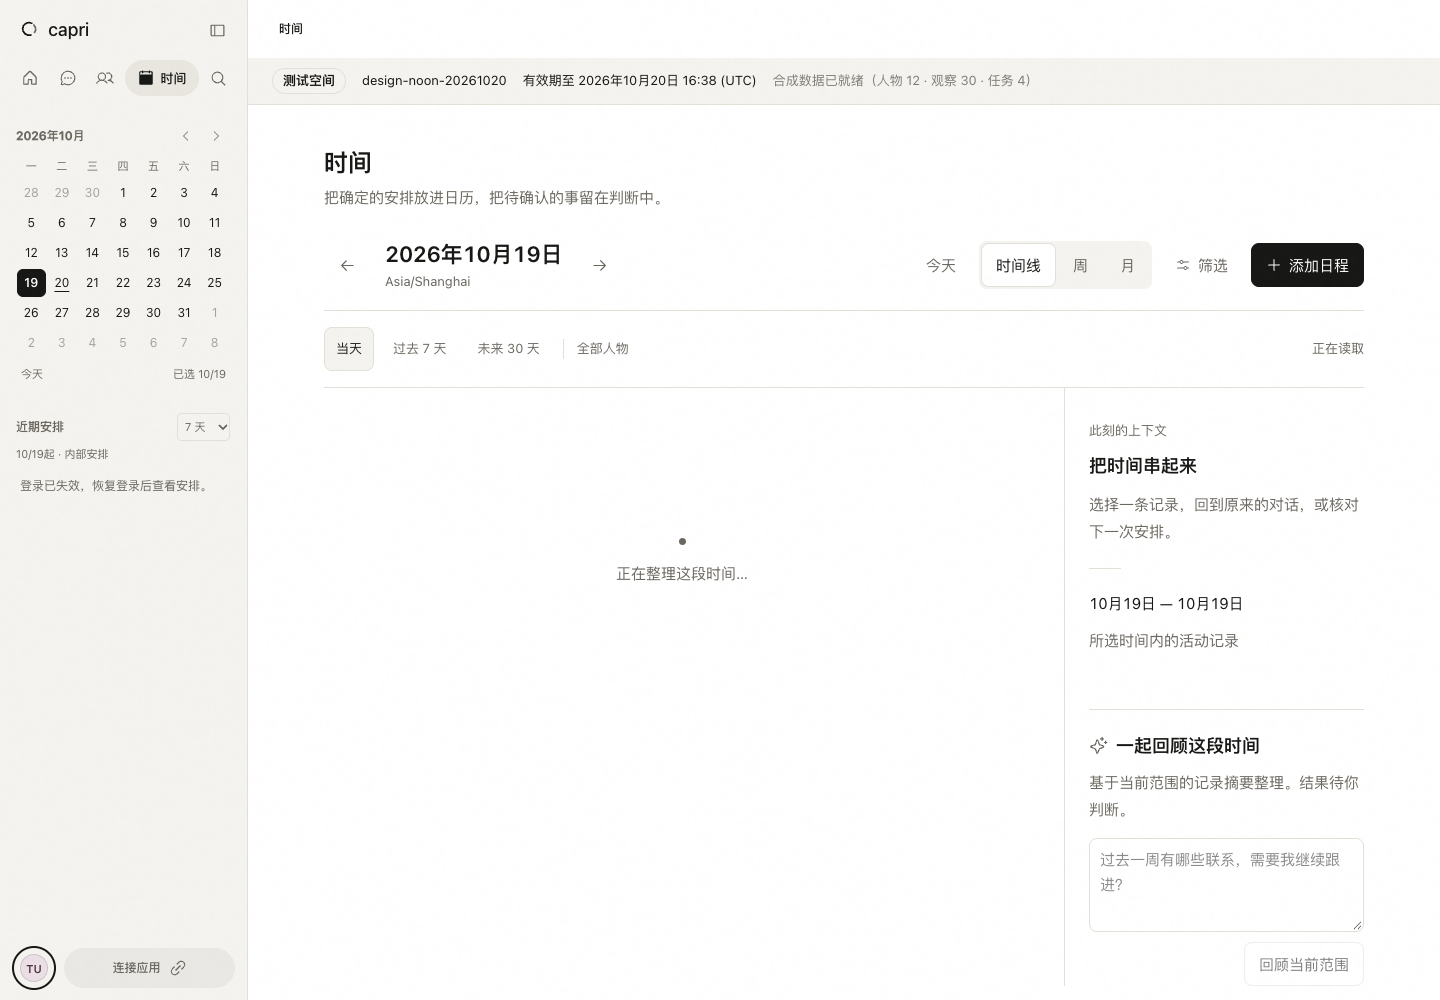
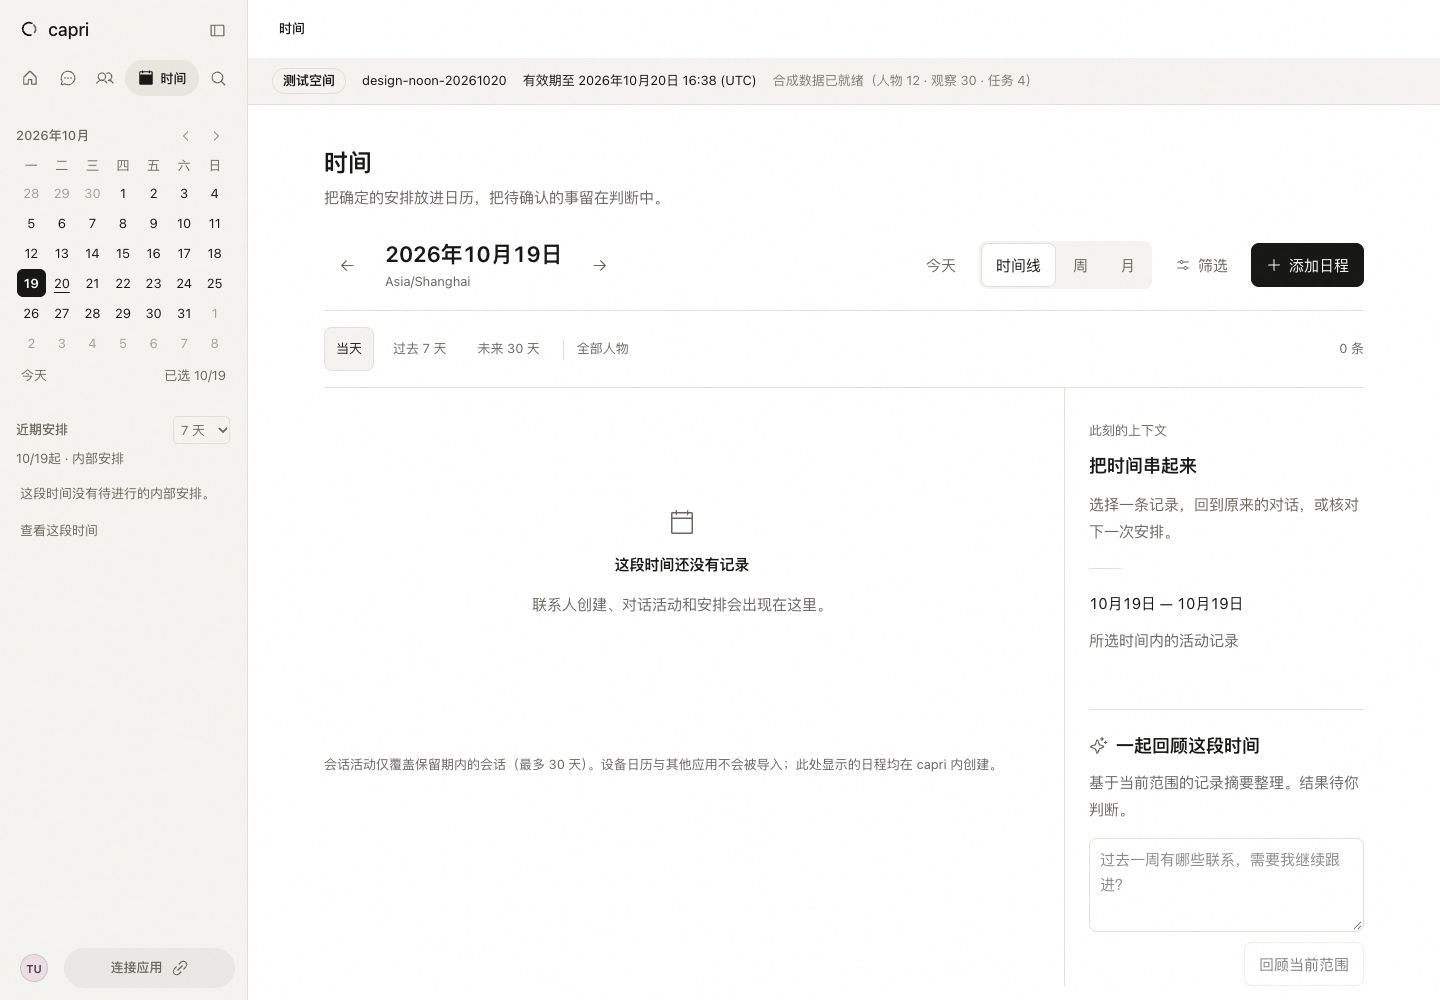
docs: record resident and native craft verification

diff --git a/design-log.md b/design-log.md
@@ -84,7 +84,7 @@ Independent source review found no concrete P0/P1/P2 at diff `7bd130aeef92dec118
 
 ### Loop 4 — Empty and failed Time states stay within reach
 
-**Decision:** accepted locally; combined resident deployment and native after-proof pending.
+**Decision:** accepted and deployed; resident and native after-proof verified.
 
 A desktop-height floor pushed the narrow empty-state explanation behind the mobile navigation and below the short macOS window. Below 1000px, stacked rows now follow their content and the status area uses a 224px floor. Desktop composition remains stable. The Time error panel translates three known browser network-failure strings into “暂时连不上服务，请重试。”; other errors and all request, authorization and retry behavior remain unchanged.
 
@@ -96,12 +96,12 @@ A desktop-height floor pushed the narrow empty-state explanation behind the mobi
 
 At 390px the empty heading moves from 728.28px to 639.92px, and its explanation ends at 704.42px. At 1440px the heading remains at 553.22px. [Dark empty state](design-log/2026-10-20/round-04/web-dark-390-after.png), [actual loading](design-log/2026-10-20/round-04/web-390-loading.png), and [320px keyboard-expanded review](design-log/2026-10-20/round-04/web-dark-320-expanded.png) were checked without page overflow. The expanded capture intentionally follows keyboard focus and is scrolled. Error/loading proof uses a temporarily paused or failed Time Fetch in the isolated QA tab, with interception cleared afterward; Enter on Retry restores the real response. No response fixture, record write or authentication bypass is used.
 
[2 lines of base64/hex data omitted]
 
 
 ### Loop 6 — Extension choices stop competing with their content
 
-**Decision:** accepted locally; resident deployment and native after-proof pending. Loop 5's separate shared-sidebar batch is still being verified.
+**Decision:** accepted and deployed; resident and native after-proof verified. Loop 5 was verified separately in the same release.
 
 Four full-width black catalog buttons and a black selected direction tab gave utility controls more weight than the service descriptions. Direction tabs now use one fine selected underline. Catalog choices use compact secondary controls within the same existing grid. The outgoing-client empty state uses whitespace instead of another box. Body, error and empty copy use the shared 15px size, with 13px domain/auth metadata. Request, submission and confirmation primary controls remain distinct; no service, permission, route, record or business logic changes.
 
@@ -113,12 +113,12 @@ Four full-width black catalog buttons and a black selected direction tab gave ut
 
 At 390px, the first service starts at 494.08px instead of 564.72px: 70.64px earlier. Catalog targets remain 90 × 44px; both direction tabs remain at least 44px tall and sit on one row at 320. The custom form stays within 320px, with 44px inputs and 16px input text. [Dark mobile](design-log/2026-10-20/round-06/web-dark-390-after.png), [dark desktop](design-log/2026-10-20/round-06/web-dark-1440-after.png), [forced colors](design-log/2026-10-20/round-06/web-forced-colors-390.png) and [real read failure](design-log/2026-10-20/round-06/web-error-390.png) were checked. Actual forced-color inspection caught transparent unselected tab borders becoming black; explicit Canvas/Highlight borders fix the ambiguous selection. Arrow keys move selection and focus, and the 2px outline remains visible. Reduced motion removes the 180ms transitions.
 
[2 lines of base64/hex data omitted]
 
 
 ### Loop 5 — Shared utilities become legible without growing the shell
 
-**Decision:** accepted locally after independent review; combined resident deployment and native after-proof pending. This bounded batch ran alongside Loop 6 and is committed afterward.
+**Decision:** accepted and deployed after independent review; resident and native after-proof verified. This bounded batch ran alongside Loop 6 and is committed afterward.
 
 Sidebar names and search results now use the shared 15px body size. Labels, dates, counters and supporting context use 13px metadata. Nonstandard weights collapse into 400/500/600. Existing sidebar widths, calendar cell heights, single-line session titles, truncation and every action remain intact. The compact avatar initials retain their existing geometric sizing. Mobile search entry stays 16px, and its initial/error/no-results explanation uses 15px. Ordinary utility transitions share 180ms; the existing 220ms footer morph remains within the design range.
 
@@ -132,8 +132,22 @@ The sidebar stays 248px wide. Person rows are 52.39px high; at [900 × 720](desi
 
 [Search on desktop](design-log/2026-10-20/round-05/search-1440-after.png), [390px keyboard selection](design-log/2026-10-20/round-05/search-390-after.png) and [320px no results](design-log/2026-10-20/round-05/search-empty-320-after.png) were exercised. Meta+K and Control+K open it, ArrowDown selects a result, Enter opens the actual synthetic person, and Escape closes it. At 320, the dialog is 288px wide and input text remains 16px, without page overflow. Focus is visible at 2px. Computed normal transitions are 180ms; actual reduced-motion transitions resolve to 0.00001s, including the late-defined rail controls.
 
-The [small-calendar forced-color label](design-log/2026-10-20/round-05/time-forced-colors-1440.png) now stays readable on its system highlight. [Cross-month selected date](design-log/2026-10-20/round-05/calendar-selected-outside-forced-1440.png) retains Highlight/HighlightText even when also outside the browsed month. Those state captures include the local preview's separate sidebar authentication error, and one includes a transient actual health/loading warning. They are state-specific proof, not matched normal Time comparisons; the normal Time after-image will come from the resident service.
+The [small-calendar forced-color label](design-log/2026-10-20/round-05/time-forced-colors-1440.png) now stays readable on its system highlight. [Cross-month selected date](design-log/2026-10-20/round-05/calendar-selected-outside-forced-1440.png) retains Highlight/HighlightText even when also outside the browsed month. Those state captures include the local preview's separate sidebar authentication error, and one includes a transient actual health/loading warning. They are state-specific proof, not matched normal Time comparisons; the [normal Time after-image](design-log/2026-10-20/round-05/time-1440-after.png) comes from the resident service and shows its healthy empty schedule sidebar.
 
[1 lines of base64/hex data omitted]
 
-Native before-images use the same empty Time day on the primary authorized workspace: [1123 × 865](design-log/2026-10-20/round-05/macos-default-before.png) and [900 × 720](design-log/2026-10-20/round-05/macos-narrow-before.png). Native menu navigation and reload restored an inspectable page; the window is restored to its default size. A provisional capture retained an old painted date selection and was replaced after explicit-date reload. After-proof remains required after the combined deployment. Today summaries remain a separate unresolved runtime observation.
+Native before-images use the same empty Time day on the primary authorized workspace: [1123 × 865](design-log/2026-10-20/round-05/macos-default-before.png) and [900 × 720](design-log/2026-10-20/round-05/macos-narrow-before.png). Native menu navigation and reload restored an inspectable page; the window is restored to its default size. A provisional capture retained an old painted date selection and was replaced after explicit-date reload. After-proof now verifies [1123 × 865](design-log/2026-10-20/round-05/macos-default-after.png), [900 × 720](design-log/2026-10-20/round-05/macos-narrow-after.png), and [actual ⌘K search](design-log/2026-10-20/round-05/macos-search-after.png); Escape returns to Time. Today summaries remain a separate unresolved runtime observation.
+
+
+### Combined resident proof — Loops 4, 5 and 6
+
+All three bounded batches are active at clean committed revision `916c104c2526cbd0be088ce62ea6ebc66c934a68`, build `5PrRkQAfnP-lkomTIMDmF`. The detached release passed production compilation, type checking and static generation before activation. HTTPS login validates the certificate; the authenticated isolated workspace reads its actual four-entry extension catalog after restart. Launchd recovery took 18.41 seconds, changed the process, restored password-account readiness and retained the same revision/build receipt. API readiness and its database remain healthy; these Web-only changes do not require a backend rebuild.
+
+Native Time uses the same authorized empty workspace and explicit date before and after. The narrow explanation now appears inside the window.
+
+| Native Time | Before | After |
+| --- | --- | --- |
+| 1123 × 865 | ![Default before](design-log/2026-10-20/round-04/macos-default-before.png) | ![Default after](design-log/2026-10-20/round-04/macos-default-after.png) |
+| 900 × 720 | ![Narrow before](design-log/2026-10-20/round-04/macos-narrow-before.png) | ![Narrow after](design-log/2026-10-20/round-04/macos-narrow-after.png) |
+
+The build preparation also inspected host and Docker-VM capacity. Only individually rechecked unused, unshared, reproducible BuildKit records were reclaimed by exact ID. Image, volume and running-container sets remain identical; Docker context stays `colima`. VM free space increased from 2,417,340 to 4,396,992 KiB. Host free space remained above the 30 GiB build threshold. Current and rollback release sources were preserved. Raw cleanup receipts stay in the private task artifact.

diff --git a/plans/2026-10-20-design-noon.md b/plans/2026-10-20-design-noon.md
@@ -176,3 +176,20 @@ Calendarforcedselected19whiteonHighlightverified, andactualday31thenbrowseNov se
 Dev77447stoppedexit0onlyafterhealthyQA9confirmedresidentHTTPSPeople390. ItwasrestartafterprovenCSSstale13evenreload: stopped33164, lsof+Dnextdevempty, removedonlyowned.next/dev, final59teststhenstart77447. Newcachecompiledfinalempty15. NextAGENTS/nextenvknownchurninspectedrestored; noactivedevnow. Nootherjobsstopped.
 
 NativeAppKitGo->TimeworkedwhenWebViewlinkhadnoAXframe; More->Reloadwithactualday20URL makespaintedselected20agree. Freshsafeemptybeforedefault1123x865/narrow900x720curatedround05 andround04; narrowemptytitleatbottomandcopyoffwindow. Restored1123x865. Offersnew0.2.11(146)updatefromconcurrentnativework; didnotinstall. NativeTodaystillloadsunresolved. BeforeparentreloadsomeAXHTMLtemporarilymissingandpaintingstale; doactualreload/readbackratherthanclaimappsourcebug. Needcleancommit5, buildcombined4+5+6usingpinnedpnpm11.18.0atcleanrelease, recheckactive46/installerlock, activate, actualresidentWeb+nativeafterproof; nobackenddiffnoAPIdeployneeded. Lastresources88Node12.78GiBswap32.35GiBfree; avoidoverlappingheavybuilds, protectcurrent+rollbacksource/deps.
+
+
+## 03:54 checkpoint — combined4/5/6 clean release building
+
+Loop5 committed916c104c2526cbd0be088ce62ea6ebc66c934a68; sourceclean, finaldiff55e0177...reviewbind. Clean detached release `/Users/cubxxw/Library/Application Support/Talent Signal/web/releases/916c104c` created; pinned pnpm11.18.0 verifiedandfrozenofflineinstallpassed803reused0download9.8s. No trackedchangesafterprep. Productionbuildnowrunning, logcombined-utilities-release-build.log, sessionreturnedinthetooloutput. Live46cc6ab3stillunchangeduntilactivationreadback. Re-readinstallerlock/activebeforeactivate.
+
+Prebuildresourceaudit80Node12.07GiBswap33.11GiBhostfree; afterdependencydf34,551,780KiB(32.95GiB)>30. Noothernextbuild/dev/vitest/tscjobs. Dockercontextcolimapreserved; VM initially2,417,340KiBfree96%. InspectedBuildKitmetadata433records andexact3+1private/regulardependency-buildchains. Initialcombinedbooleanfilterattempt0B; privatefilteredfreshcheck0recordsrefusedBEFOREmutation. Read-onlysingle-IDprobesverifiedid=worksbutinuse=false/shared=falsefilteredoutintendedrecords. Switchedtochild-firstsingleexactidpruneonlyaftereachfreshReclaimabletrue/Sharedfalse/Type regular check; tinyMutableleafonlyknownpnpmrebuildmarkeraccepted.38exactrecordsprocessed(total25+13), no globalprune/noimages/no volumes/no containerscommands. Formalprivatecache-cleanup-selection.json/step logs/preserved-before/afterretainIDs. Images72/volumes57/runningcontainers36setsunchanged. VMnow4,396,992KiBfree(4.19GiB);API4317health/ready200. NoDockerbuildrequested; thishostWebbuildhasVMcapacityreservedforDBsteadywrites. Do notclaiminitial0Battemptsfreedspace.
+
+CUAselectedtab9/liveQAnowLinearrootredirectedexistingauthenticatedGetYakAgent(https://linear.app/getyak/agent),1440x1000; readchromeonly,noprivateissuesopened/settingschanged. Rawprivate reference-linear-signed-in-agent-shell-1440.png. NewusableofficialThingsillustrativeMacTodayreferenceathttps://culturedcode.com/things/features/ (Macswitch,scrolled330),rawreference-things-today-mac-1440.png; notinstalledThingsinteraction/notparityclaim. OldThingsAppStoreprivacycapturestillnotUIreference. Needreturntab9toresidentforpostactivationproof; noextra browsercreated. Browsermediafeatures[]default; noFetchinterception. NativeTimeactualday20query,default1123x865primaryworkspace0records; freshafterReloaddefaultandnarrowbaselinepaintselected20nowcorrectcuratedround4/5. No nativeafterclaimed. Needactivation+HTTPS/auth/realprotected4/5/6pages/native1123/900/shortcuts+launchdrestartrecoverythenupdateproofreceipts/loginnewdocscommit. Todaynativeindefinitesummaryloadingstillopen, no businessfixauthorized.
+
+## 04:20 checkpoint — combined release verified and documented
+
+Live916c104c/build5PrRkQAfnP-lkomTIMDmF passed clean detached production build/activation, HTTPS login200/certificate0, password-account readiness and protected synthetic directory after restart. Exact locked launchd recovery18.41s/7attempts/newprocess/samereceipt; no duplicate kickstart. APIhealthready/databasehealthy. Resident after-images for Time1440/390 and Extensions1440/390 replace formal local candidates; native Time and Extensions1123x865/900x720 plus actualCommandK/Esc safeemptysearch saved, copiedcurated. Native defaultwindowrestored. No nativeExtensionsbeforeimage, no fakepairedclaim. New normalTime1440 shows healthyemptysidebar, priorforcedstateautherrorimages remain honestlylabeled.
+
+Docscheckpassed afterreceipt/logupdates. Currentuncommitteddocs/proof readyforcommit. No sourcechangesafter916. NextnativeTodayinvestigation uses systematic-debugging, nofixyet. ReadTodayhookandworkspace-refresh: existingcoordinatorALREADYlistensvisibility/focus/online andpollsvisible10s, so simplyaddinganotherlistenerwouldduplicateownership. Hiddenearlyreturnaloneisnotprovenrootcause. NeedactualfreshTodaystateafterforeground/reload and comparewhatsettles before touchingUI lifecycle; preserveallGETscope/authgeneration/expiry/projection/data. Userno businesslogic/dataremainsinforce.
+
+Native AXsystemmenuEscape didnotcloseGo; exposedperformSecondaryAction Cancel did. ThenfreshscreenshotcoordinateHome[29,118] navigatesToday, currentlywaitingactualpaint. Browser9/liveQAhealthyresidentExtensions1440,4actualcatalogentriesafterrestart, noexternalwrites. Native0.2.8unchanged, default1123x865. No dev/build active.
